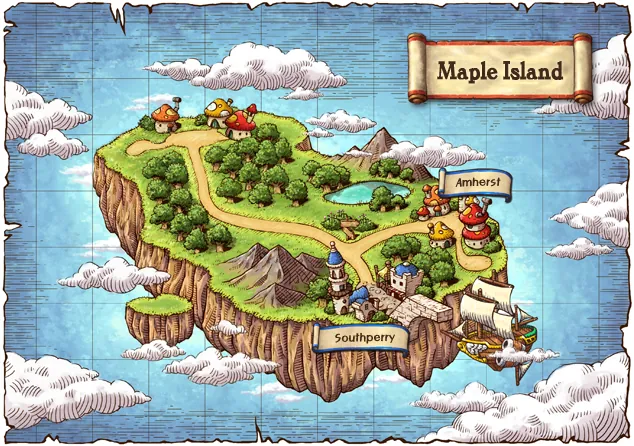
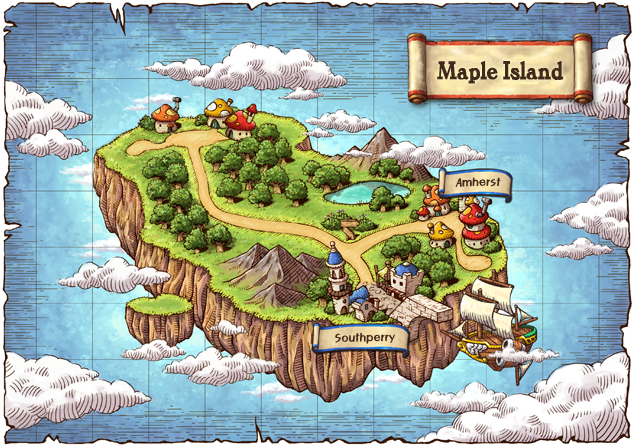
Keep the world map pictures near-lossless instead of lossy
Quality 80 lossy WebP softened the hand-drawn outlines and labels and shifted colours at edges (PSNR down to 29.8 dB). cwebp -near_lossless 60 keeps them sharp (PSNR at least 48 dB against NiaDB's lossless originals) at 1072 KB for the four regions, 28% under the originals. The tool uses cwebp when it is installed and otherwise keeps the fetched pictures.

diff --git a/tools/niadb_map_assets.py b/tools/niadb_map_assets.py
@@ -24,8 +24,9 @@ region's spots, from the client's WorldMap.wz: position, marker type, main
 map) and /_data/worldmap-previews.json (the maps each spot covers) into
 data/reference/niadb/, and the region pictures and marker sprites from
 /msclassic/worldmap/ into web/images/worldmap/. NiaDB's region pictures are
-lossless WebP (about 500 KB each); they are saved as lossy WebP at quality 80
-(about 100 KB). data/reference/niadb/worldmap-images.json records each
+lossless WebP (about 500 KB each); they are re-encoded as near-lossless WebP
+(`cwebp -near_lossless 60`, about 30% smaller, edges and text stay sharp). Without
+`cwebp` on PATH (or in $CWEBP) the pictures are kept as fetched. data/reference/niadb/worldmap-images.json records each
 region's picture and size.
 
 `scenes` saves NiaDB's rendered map scenes (the whole map drawn from the
@@ -50,8 +51,12 @@ Each writes a `sources.json` next to the files with the URL and date.
 import argparse
 import datetime
 import json
+import os
 import re
+import shutil
+import subprocess
 import sys
+import tempfile
 import time
 import urllib.error
 import urllib.request
@@ -78,7 +83,10 @@ REGION_IMAGES = {
 # and the "you are here" arrow.
 MARKERS = ["marker-town.png", "marker-spot.png", "marker-cluster.png", "marker-field.png",
            "marker-facility.png", "curpos-0.png"]
-REGION_QUALITY = 80
+# cwebp's near-lossless level: 100 is lossless, lower values let it adjust
+# pixel values slightly before lossless coding. 60 keeps every picture above
+# 48 dB PSNR against NiaDB's original.
+REGION_NEAR_LOSSLESS = 60
 
 
 def read_json(path):
@@ -191,16 +199,20 @@ def heads():
     print(f"{len(made)} heads in {HEADS}")
 
 
-def lossy_webp(body, quality):
-    """A picture (any format Pillow reads) as lossy WebP bytes."""
-    import io
-    from PIL import Image
-
-    with Image.open(io.BytesIO(body)) as image:
-        image = image.convert("RGBA" if "A" in image.getbands() else "RGB")
-        out = io.BytesIO()
-        image.save(out, "WEBP", quality=quality, method=6)
-    return out.getvalue()
+def near_lossless_webp(body, level):
+    """A WebP picture re-encoded near-lossless with cwebp; unchanged when cwebp
+    is missing or the result is not smaller."""
+    cwebp = os.environ.get("CWEBP") or shutil.which("cwebp")
+    if not cwebp:
+        print("cwebp not found; region picture kept as fetched")
+        return body
+    with tempfile.TemporaryDirectory() as folder:
+        source, target = Path(folder, "in.webp"), Path(folder, "out.webp")
+        source.write_bytes(body)
+        subprocess.run([cwebp, "-quiet", "-near_lossless", str(level), "-z", "9", str(source), "-o", str(target)],
+                       check=True)
+        out = target.read_bytes()
+    return out if len(out) < len(body) else body
 
 
 def worldmap(pause):
@@ -222,7 +234,7 @@ def worldmap(pause):
             sys.exit(f"/msclassic/worldmap/{name}: 404")
         size = len(body)
         if name in regions:
-            body = lossy_webp(body, REGION_QUALITY)
+            body = near_lossless_webp(body, REGION_NEAR_LOSSLESS)
         (WORLDMAP / name).write_bytes(body)
         print(f"worldmap {name} {size} -> {len(body)}")
         time.sleep(pause)

diff --git a/server/README.md b/server/README.md
@@ -238,7 +238,7 @@ cargo run --release -p market-web --bin reachability        # 从射手村能到
    - 怪物副本：NiaDB 名字带"(alt)""(alt2)""(GM Event)"、在开放地图上没有刷怪点的怪物（GM 活动的红蜗牛王等 810000–810005，月妙副本的蝙蝠 800020–800023，哥布林之火 800025）标 `unreleased`。有刷怪点的副本怪（组队任务、转职考场里的 8000xx）照常显示。
    - 占位地图：客户端没有名字、NiaDB 用编号当名字的地图（080003500）标 `unreleased`。
    - 地图视图（迁移 0040）：`maps` 存 NiaDB 的小地图框（`minimap_w/h`、`minimap_cx/cy`，世界坐标 (x, y) 在框里是 (x + cx, y + cy)）和玩家出生点；`map_spawn_points` 一行一个刷怪点（怪物、坐标、定时重生秒数）；`map_npcs` 加 NPC 站位。图片由 `tools/niadb_map_assets.py` 从 NiaDB 下载进仓库：`web/images/minimaps/<id>.png`（客户端小地图，世界尺寸的 1/16，406 张），怪物站立图 `data/reference/niadb/mob-sprites/`，以及由它生成的 48×48 头像 `web/images/mobs/head/<id>.png`。地图页把小地图画成 SVG（`pages/mapview.rs`，前端 `mapview.tsx`），怪物头像站在刷怪点上，传送口链接到目标地图，NPC 链接到 NPC 页；坐标都是 SVG 属性，页面仍不用内联样式。路线页每一步画出所在地图，圈出要走的传送口和进来的位置。NPC 页（`/npc/<id>`）列出站位、给的任务和商店。
-   - 场景图和世界地图（迁移 0041，`bestiary::worldmap`）：`tools/niadb_map_assets.py scenes` 下载 NiaDB 渲染的整张地图场景（背景、地块、物件，不含怪物和 NPC），缩到 1760×1040 以内存为 `web/images/scenes/<id>.webp`，另存缩到 1100×650 以内的手机版 `web/images/scenes/small/<id>.webp`（地图视图用 `srcset` 让浏览器按屏幕挑；已有场景图可用 `scene-copies` 命令离线补齐手机版），`scenes.json` 记每张图覆盖的世界坐标矩形（多数就是小地图框，商店等没有小地图的室内地图用 NiaDB 的地形视野框，并拿它当视图框）。地图视图有场景图时画场景图，前端可切回小地图；路线页只有第一张步骤图随页面加载场景图，其余先画小地图，滚到附近再换成场景图。地图（地图页、路线步骤、NPC 位置、世界地图）可以全屏放大（`frontend/src/pages/zoom.tsx`）：手机上点地图打开，里面能拖动、双指缩放或用 +/−，点怪物、传送口照常跳转；桌面用右上角按钮。`worldmap` 命令下载客户端世界地图（各区域图片转成质量 80 的有损 WebP，标记图标）和 NiaDB 的 `worldmap-spots.json` / `worldmap-previews.json`，导入 `world_regions`、`world_spots`（位置、标记类型、主地图）、`world_spot_maps`（每个点覆盖的地图，373 张）。`/world` 显示开放的区域（天空之城、冰峰雪域不显示；主地图未开放的点也不显示），城镇标中文名，悬停显示等级范围和地图数；`?map=<id>` 用箭头标出这张地图的位置，地图页有"在世界地图上看"按钮。路线页把经过的点连成线画在世界地图上。
+   - 场景图和世界地图（迁移 0041，`bestiary::worldmap`）：`tools/niadb_map_assets.py scenes` 下载 NiaDB 渲染的整张地图场景（背景、地块、物件，不含怪物和 NPC），缩到 1760×1040 以内存为 `web/images/scenes/<id>.webp`，另存缩到 1100×650 以内的手机版 `web/images/scenes/small/<id>.webp`（地图视图用 `srcset` 让浏览器按屏幕挑；已有场景图可用 `scene-copies` 命令离线补齐手机版），`scenes.json` 记每张图覆盖的世界坐标矩形（多数就是小地图框，商店等没有小地图的室内地图用 NiaDB 的地形视野框，并拿它当视图框）。地图视图有场景图时画场景图，前端可切回小地图；路线页只有第一张步骤图随页面加载场景图，其余先画小地图，滚到附近再换成场景图。地图（地图页、路线步骤、NPC 位置、世界地图）可以全屏放大（`frontend/src/pages/zoom.tsx`）：手机上点地图打开，里面能拖动、双指缩放或用 +/−，点怪物、传送口照常跳转；桌面用右上角按钮。`worldmap` 命令下载客户端世界地图（各区域图片用 `cwebp -near_lossless 60` 转成近无损 WebP，边缘和文字不糊，标记图标）和 NiaDB 的 `worldmap-spots.json` / `worldmap-previews.json`，导入 `world_regions`、`world_spots`（位置、标记类型、主地图）、`world_spot_maps`（每个点覆盖的地图，373 张）。`/world` 显示开放的区域（天空之城、冰峰雪域不显示；主地图未开放的点也不显示），城镇标中文名，悬停显示等级范围和地图数；`?map=<id>` 用箭头标出这张地图的位置，地图页有"在世界地图上看"按钮。路线页把经过的点连成线画在世界地图上。
    - 找怪物（`/route?mode=mob`、`/route?from=<地图>&mob=<怪物名或 ID>`）：按怪物名（中文或英文，完整名优先，否则唯一的部分匹配）或 ID 找怪，算出发地（默认射手村）到它所有开放刷怪地图的最短路，给出最近那张的路线，并按步数列出全部刷怪地图（到不了的排最后）。怪物页有"从射手村去最近的刷怪地图"按钮。
    - AI 助手：`agent/adventure-data.json` 是固定的客户端快照，`OPENS_LATER` 里未开放区域的地图、任务，以及只出现在那里的怪物和 NPC，在开放日前不返回（`agent/adventure.rs`）。
    - 掉落：整张表换成 NiaDB `drops.json`（玩家报告、投票），只收赞成多于反对的，每只怪每种物品一行，按（赞成 − 反对）从高到低。没有掉率（`rate_pct` 为空，Classic World 不公布），存 `upvotes` / `downvotes`；页面显示"N 票"，不再估算"打多少只出一个"。金币：Mapledex 的金币掉落不再导入，改用 NiaDB `mesos.json`（玩家报告的每堆金币数和投票）：NiaDB 有可信报告（`summary.trustedCount > 0`）的怪物加一行金币，范围是它页面上显示的中位数（`medianMin`–`medianMax`），票数是这只怪所有报告的票数之和；没有可信报告的不加。

diff --git a/THIRD_PARTY_NOTICES.md b/THIRD_PARTY_NOTICES.md
@@ -7,7 +7,7 @@
 - Item names, icons, and catalogue data remain subject to their original sources' terms. Downloaded catalogues, market snapshots and third-party website copies are not included in this repository, except the reference files under `data/reference/` listed here. The local catalogue builder refers to the public DVG GCW catalogue (https://mxdgcw.dvg.cn) and Mapledex CW GMS_COT2_2026-08-11 reference (https://kafuffu20.com/classic-world/); source/version links and translation provenance are retained locally. Item icons on our pages are linked from the DVG CDN (`https://mxdgcw.dvg.cn/dbsource/icon/item/<id>.png`), not copied.
 - `data/reference/niadb/`: public data bundles from NiaDB / meowdb.com (`/_data/maps.json`, `/_data/quests.json`, and the monster and NPC-shop lists embedded in their pages), fetched 2026-10-21. `items.json` is the item list behind https://meowdb.com/msclassic/item-db (`/msclassic/api/items`, all five inventory tabs, API objects unchanged), fetched 2026-10-21 with `tools/niadb_items.py`. `monsters.json` (the list embedded in https://meowdb.com/msclassic/monsters), `maps.json` (`/_data/maps.json`) and `drops.json` (per monster, `/msclassic/api/drops?monsterId=<id>`: items players reported seeing drop in Classic World, with community up/down votes) and `quests.json` (`/_data/quests.json`, refetched 2026-11-03) and `mesos.json` (per monster, `/msclassic/api/mesos-reports?monsterId=<id>`: meso amounts players reported per pile, with votes and NiaDB's median summary) were fetched 2026-11-02 with `tools/niadb_bestiary.py`; `import_catalog` takes the bestiary's mobs, launch stats, maps, spawns, player-confirmed drops and meso ranges from them, and monster pages link the NiaDB monster page. Map portals, coordinates and field data there are client Map.wz values; NPC shop prices carry their own `priceSource` (community screenshots and videos). `import_catalog` loads the item list into `items`, the maps Mapledex lacks into `maps`, NPC names and placements into `npcs` / `map_npcs`, and the shops into `npc_shops` (with `priceSource` as `source`). Used as interim bestiary data until our own client export replaces it, and as a cross-check afterwards. NiaDB's reuse policy is at https://meowdb.com/reuse; pages built on this data credit NiaDB.
 - `web/images/minimaps/` (406 client minimaps, `https://meowdb.com/msclassic/maps/minimaps/<id>.png`) and `data/reference/niadb/mob-sprites/` (206 monster stand sprites, `https://meowdb.com/msclassic/monsters/sprites/mob_<id>.png`): downloaded from NiaDB on 2026-11-03 with `tools/niadb_map_assets.py fetch`, each directory listing its source and date in `sources.json`. `web/images/mobs/head/` holds 48×48 head icons made from those sprites by `tools/niadb_map_assets.py heads`. The map view draws the monster heads on NiaDB's spawn-point coordinates over the minimap. The images are game art and remain the property of NEXON and its affiliates.
-- `web/images/scenes/` (366 rendered map scenes, the "bare" variant of `https://meowdb.com/msclassic/api/assets/maps/<key>?v=12`, scaled to fit 1760×1040 and re-encoded as WebP quality 75, with phone copies under `small/` scaled to fit 1100×650) with `data/reference/niadb/scenes.json` (each scene's world rectangle), and `web/images/worldmap/` (the client's world map region pictures, re-encoded as lossy WebP quality 80, and marker sprites from `https://meowdb.com/msclassic/worldmap/`) with `data/reference/niadb/worldmap-spots.json`, `worldmap-previews.json` (NiaDB `/_data/`, the client's world-map spots and the maps each covers) and `worldmap-images.json`: downloaded from NiaDB on 2026-11-03 with `tools/niadb_map_assets.py scenes` / `worldmap`. Game art, property of NEXON and its affiliates.
+- `web/images/scenes/` (366 rendered map scenes, the "bare" variant of `https://meowdb.com/msclassic/api/assets/maps/<key>?v=12`, scaled to fit 1760×1040 and re-encoded as WebP quality 75, with phone copies under `small/` scaled to fit 1100×650) with `data/reference/niadb/scenes.json` (each scene's world rectangle), and `web/images/worldmap/` (the client's world map region pictures, re-encoded as near-lossless WebP (`cwebp -near_lossless 60`), and marker sprites from `https://meowdb.com/msclassic/worldmap/`) with `data/reference/niadb/worldmap-spots.json`, `worldmap-previews.json` (NiaDB `/_data/`, the client's world-map spots and the maps each covers) and `worldmap-images.json`: downloaded from NiaDB on 2026-11-03 with `tools/niadb_map_assets.py scenes` / `worldmap`. Game art, property of NEXON and its affiliates.
 
 - `data/reference/mapledex/`: Mapledex CW GMS_COT2_2026-08-11 (https://kafuffu20.com/classic-world/), non-commercial use. `monsters.json` and `maps.json`, plus `items.json`, `equips.json`, `npcs.json` and `meta.json` fetched 2026-10-21 from `https://kafuffu20.com/classic-world/data/<name>.json`. `server/crates/market-web/src/bin/import_catalog.rs` loads them into the bestiary tables (items, mobs, maps, spawns, drops, NPC names and placements, return links); the item, mob and map pages show this data with attribution. Mob images on those pages are linked from maplestory.io (GMS v83 render API), not copied.
 - `data/reference/dvg/`: map and NPC data from the public DVG GCW catalogue (https://mxdgcw.dvg.cn, dataset `gms-cw`), fetched 2026-10-21 with `tools/zh_names.py fetch`. `map-list.json` and `npc-list.json` are the rows of `/api/map-list.php` and `/api/npc-list.php` (`lng=CN`, API objects unchanged); `map-pages.json` and `npc-pages.json` hold the name header (Chinese name, English name, subtitle) of `/map_info.php?id=<id>` and `/npc_info.php?id=<id>` for the ids the lists lack.
